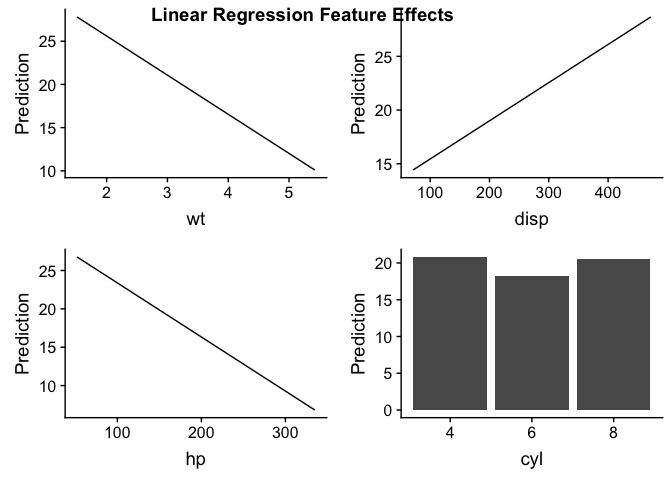
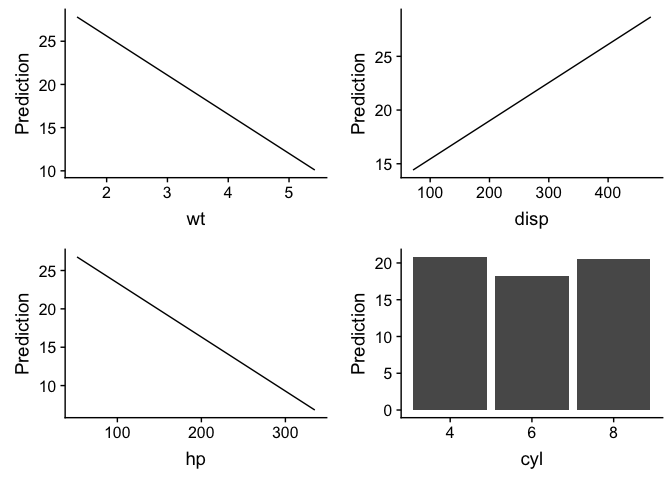
documented functions

Changed region(s): [[0.2188, 0.0, 0.6875, 0.0625]]

diff --git a/README.md b/README.md
@@ -7,8 +7,8 @@
 
 <!-- badges: end -->
 
-The goal of xrayspecs is to do model-agnostic iterpretation of black-box
-models.
+The goal of xrayspecs is to display model-agnostic iterpretations of
+black-box models.
 
 ## Installation
 
@@ -33,8 +33,8 @@ The `mtcars` data set is used for this example. The `dplyr` package is
 used to transform the categorical features (`cyl`, `vs`, `am`, `gear`
 and `carb`) to factors. The trasformation is required so that the
 `effect_plot` function, from the `xrayspecs` package, knows how to plot
-the feature effects. For example, the effect of numeric features are
-displayed with line plots and the effect of factor features are
+the feature effects. For example, the effect of continuous features are
+displayed with line plots and the effect of categorical features are
 displayed with bar plots.
 
 ``` r
@@ -52,13 +52,14 @@ mtcars <- mtcars %>%
 
 ### Random forest and linear regression models
 
-A random forest and a linear regression model is fit to the `mtcars`
-data set using the `parsnip` package. The `parsnip` package provides a
-unified framework for fitting models in `R`. The models that are
-available for fitting in `parsnip` are listed
+A [random forest](https://en.wikipedia.org/wiki/Random_forest) and a
+[linear regression](https://en.wikipedia.org/wiki/Linear_regression)
+model is fit to the `mtcars` data set using the `parsnip` package. The
+`parsnip` package provides a unified framework for fitting models in
+`R`. The models that are available for fitting in `parsnip` are listed
 [here](https://tidymodels.github.io/parsnip/articles/articles/Models.html).
 The `xrayspecs` package is designed to integrate into the `parsnip`
-package framework.
+package’s unified framework.
 
 ``` r
 library(parsnip)
@@ -76,37 +77,39 @@ lr <- linear_reg() %>%
 
 ### Permutation importance plot
 
-To display a permutation importance plot of the random forest and linear
-regression features all you need to do is pipe the `rf` and `lr` objects
-into the `importance_plot` function along with the data set (`mtcars`)
-and the name of the target variable (`mpg`). Multiple plots are
-displayed using the `cowplot` package.
+To display a [permutation
+importance](https://christophm.github.io/interpretable-ml-book/feature-importance.html)
+plot of the random forest and linear regression features all you need to
+do is pipe the `rf` and `lr` objects into the `importance_plot` function
+along with the data set (`mtcars`) and the name of the target variable
+(`mpg`). Multiple plots are displayed using the `cowplot` package.
 
 ``` r
 library(cowplot)
 
-p1 <- rf %>% importance_plot(mtcars, mpg)
-p2 <- lr %>% importance_plot(mtcars, mpg)
-plot_grid(p1, p2, labels = c("Random Forest Feature Importances", "Linear Regression Feature Importances"))
+p1 <- rf %>% importance_plot(mtcars, mpg) + ggtitle("Random Forest")
+p2 <- lr %>% importance_plot(mtcars, mpg) + ggtitle("Linear Regression")
+plot_grid(p1, p2)
 ```
 
 <img src="man/figures/README-unnamed-chunk-5-1.png" width="100%" />
 
 ### Partial dependence effect plot
 
-To display a partial dependence effect plot of a random forest feature
-all you need to do is pipe the `rf` object into the `effect_plot`
-function along with the data set (`mtcars`) and the name of the feature.
-Here the `purrr` and `cowplot` packages are used to display for effect
-plots for the four most “important” features (`disp`, `wt`, `hp` and
-`cyl`)
+To display a [partial dependence
+effect](https://christophm.github.io/interpretable-ml-book/pdp.html)
+plot of a random forest feature all you need to do is pipe the `rf`
+object into the `effect_plot` function along with the data set
+(`mtcars`) and the name of the feature. Here the `purrr` and `cowplot`
+packages are used to display for effect plots for the four most
+“important” features (`disp`, `wt`, `hp` and `cyl`)
 
 ``` r
 library(purrr)
 
 feature_names <- c("wt", "disp", "hp", "cyl")
-rf_plots <- map(feature_names, effect_plot, object = rf, data = mtcars)
-plot_grid(plotlist = rf_plots, labels = "Random Forest Feature Effects")
+rf_plots <- map(feature_names, effect_plot, object = rf, new_data = mtcars)
+plot_grid(plotlist = rf_plots)
 ```
 
 <img src="man/figures/README-unnamed-chunk-6-1.png" width="100%" />
@@ -114,11 +117,12 @@ plot_grid(plotlist = rf_plots, labels = "Random Forest Feature Effects")
 Note that effect of the `disp` variable is reversed in the linear
 regression model. This is because the random forest captures
 interactions between the features of the model whereas the linear
-regression model does not.
+regression model does
+not.
 
 ``` r
-lr_plots <- map(feature_names, effect_plot, object = lr, data = mtcars)
-plot_grid(plotlist = lr_plots, labels = "Linear Regression Feature Effects")
+lr_plots <- map(feature_names, effect_plot, object = lr, new_data = mtcars)
+plot_grid(plotlist = lr_plots)
 ```
 
 <img src="man/figures/README-unnamed-chunk-7-1.png" width="100%" />
